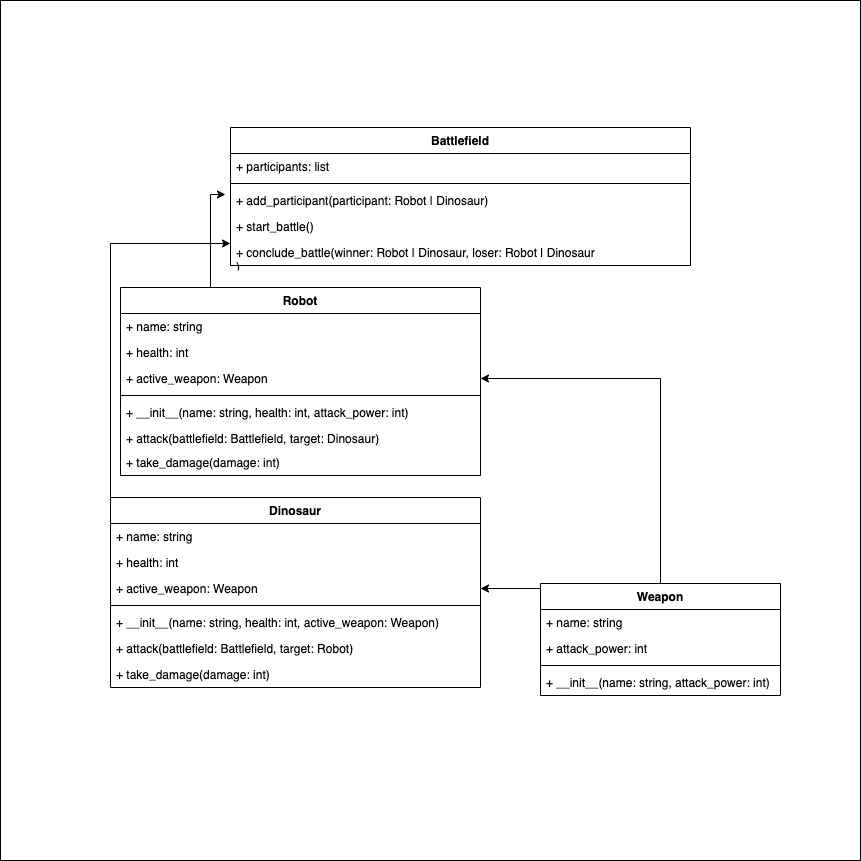
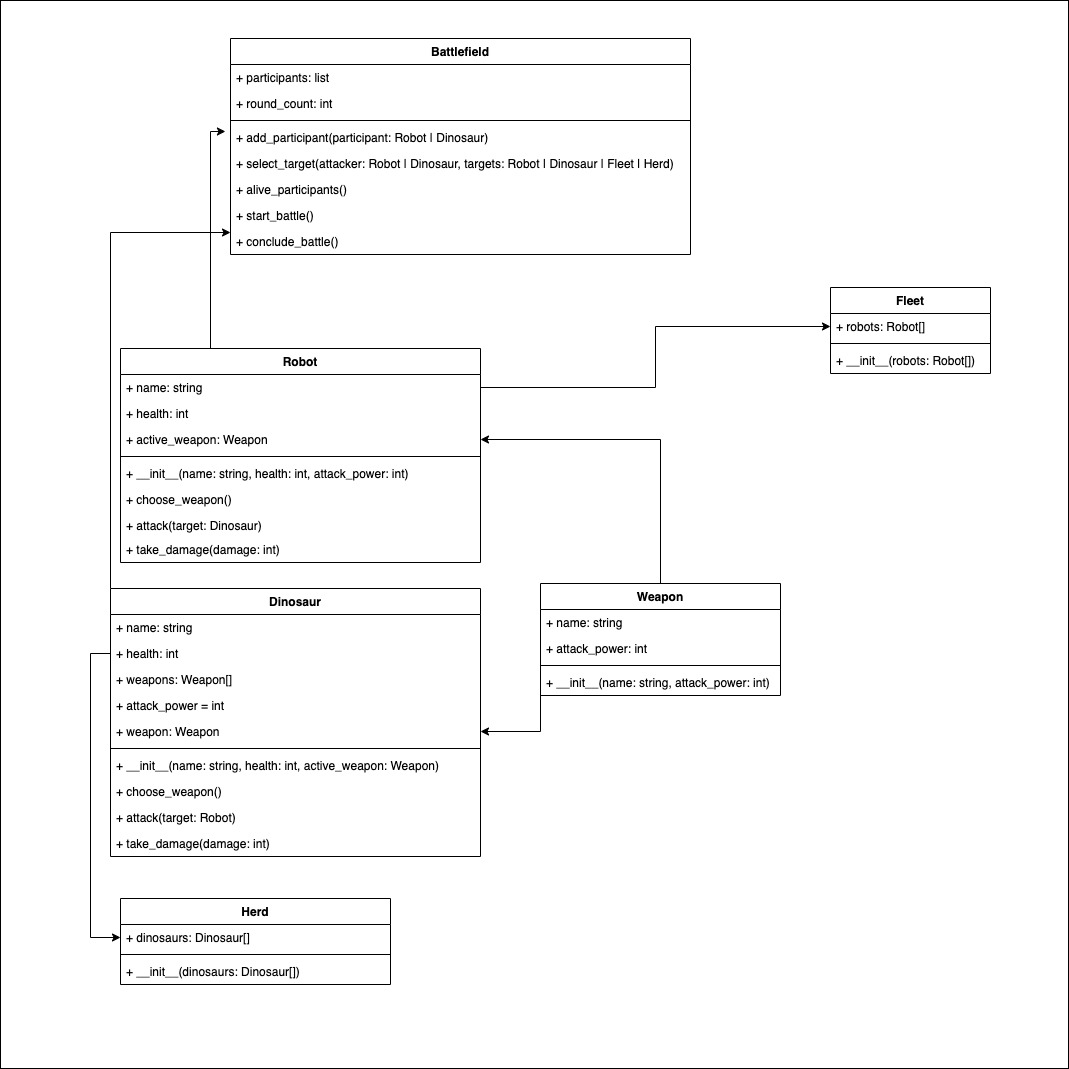
Added round count back into the start battle class

diff --git a/battlefield.py b/battlefield.py
@@ -84,6 +84,7 @@ class Battlefield:
 
     def start_battle(self):
         while True:
+            self.round_count += 1
             for attacker in self.participants:
                 if isinstance(attacker, Fleet):
                     # Choose a weapon for each robot in the fleet
@@ -114,6 +115,8 @@ class Battlefield:
                         break
                     target = random.choice(targets)
                     attacker.attack(target)
+
+            print(f"Round {self.round_count}")
 
             # Check if the battle has ended
             winner = self.conclude_battle()
